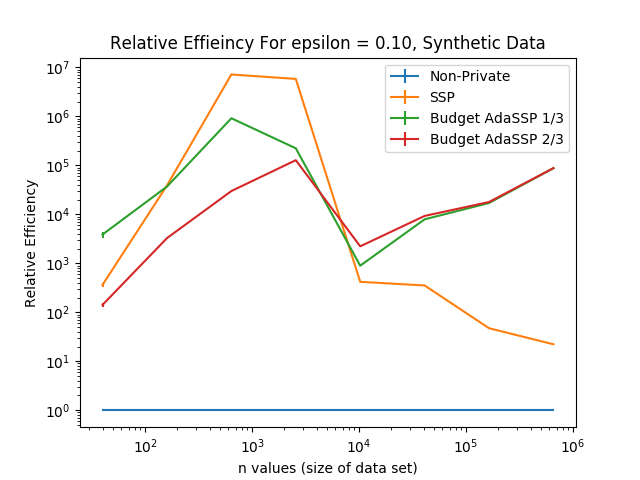
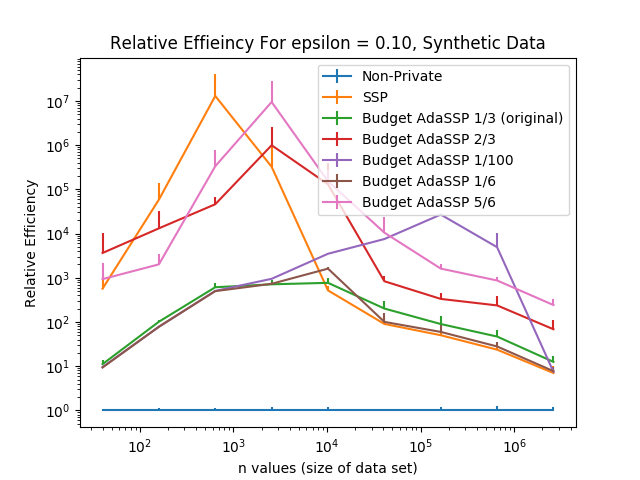
fixed adassp issue with lamb vs. lamb_min, plots make sense now

diff --git a/synthetic_experiments.py b/synthetic_experiments.py
@@ -11,7 +11,7 @@ import matplotlib.pyplot as plt
 # methods
 from SSP import SSP
 from linreg import linreg
-from adassp import adaSSP, adaSSP_1_3, adaSSP_2_3
+from adassp import adaSSP, adaSSP_1_3, adaSSP_2_3, adaSSP_1_100, adaSSP_1_6, adaSSP_5_6
 
 from test_recovery import test_recovery
 
@@ -21,9 +21,9 @@ from test_recovery import test_recovery
 
 
 d = 10
-epslist = [0.01,0.1,1]
+epslist = [0.1,1]
 #nlist= 20*2.^[1:2:18];
-nlist = [20 * (2 ** i) for i in range(1,17,2)] # smaller n go faster
+nlist = [20 * (2 ** i) for i in range(1,18,2)] # smaller n go faster
 
 cross_val_splits = 6
 
@@ -31,9 +31,10 @@ cross_val_splits = 6
 
 #methodslist = [@suffstats_perturb,@adassp, @budget_adassp_1_6, @budget_adassp_1_3,...
     #@budget_adassp_1_2, @budget_adassp_2_3, @budget_adassp_5_6, @budget_adassp_1_100]
-methodsNamelist = ['Non-Private', 'SSP', 'Budget AdaSSP 1/3', 'Budget AdaSSP 2/3'] #, 'Budget AdaSSP 1/6', 'Budget AdaSSP 1/3', 'Budget AdaSSP 1/2',
+methodsNamelist = ['Non-Private', 'SSP', 'Budget AdaSSP 1/3 (original)', 'Budget AdaSSP 2/3',
+'Budget AdaSSP 1/100', 'Budget AdaSSP 1/6', 'Budget AdaSSP 5/6'] #, 'Budget AdaSSP 1/6', 'Budget AdaSSP 1/3', 'Budget AdaSSP 1/2',
 #'Budget AdaSSP 2/3', 'Budget AdaSSP 5/6', 'Budget AdaSSP 1/100']
-methodslist = [linreg, SSP, adaSSP_1_3, adaSSP_2_3]
+methodslist = [linreg, SSP, adaSSP_1_3, adaSSP_2_3, adaSSP_1_100, adaSSP_1_6, adaSSP_5_6]
 
 vanilla_index = methodsNamelist.index('Non-Private')
 if vanilla_index < 0:
@@ -81,6 +82,7 @@ for i in range(num_n):
     for j in range(num_eps):
     #% set parameters of the algorithm
         eps = epslist[j]
+        print(f"eps is {eps:.4f}")
         #opts.eps = epslist(j);
         #opts.delta =1/n^(1.1);
         delta = 1 / (n ** (1.1)) # not so sure what this is about
@@ -92,7 +94,7 @@ for i in range(num_n):
             assert(not np.isnan(cvErr))
             #t_run=toc; # this is for timing, which I am not keeping track of
             t_run = time.time() - t
-            print(f"Time run was {t_run:.4f}s")
+            print(f"method = {methodsNamelist[k]}, Time run was {t_run:.4f}s")
             #fprintf('%s at eps = %f: Test err = %.2f, std = %.2f, runtime = %.2f s.\n', methodsNamelist{k}, opts.eps, cvErr,cvStd,t_run)
             results_err[k,j,i] = cvErr
             results_std[k,j,i] = cvStd
@@ -105,12 +107,16 @@ for i in range(num_n):
 # divide everything by the error for the vanilla linear regression
 
 rel_efficiency = np.zeros((num_method, num_eps, num_n))
+rel_efficiency_std = np.zeros((num_method, num_eps, num_n))
 vanilla_values = results_err[vanilla_index,:,:]
+
 
 for i in range(num_n):
     for j in range(num_eps):
         for k in range(num_method):
             rel_efficiency[k,j,i] = results_err[k,j,i] / vanilla_values[j,i]
+            rel_efficiency_std[k,j,i] = results_std[k,j,i] / vanilla_values[j,i]
+
 
 # then for the plotting
 # right now, it's one plot per epsilon
@@ -121,7 +127,11 @@ for j in range(num_eps):
     eps = epslist[j]
 
     for k in range(num_method):
-        ax.errorbar(x=nlist, y=rel_efficiency[k,j,:], yerr=results_std[k,j,:], label=methodsNamelist[k])
+
+        #print("yerr is ")
+        #print(np.concatenate(    (rel_efficiency_std[k,j,:].reshape((num_n,1)), np.zeros((num_n, 1))),    axis=1).reshape((2, num_n)))
+
+        ax.errorbar(x=nlist, y=rel_efficiency[k,j,:], yerr=np.concatenate(    (np.zeros((num_n, 1)), rel_efficiency_std[k,j,:].reshape((num_n,1))),    axis=1).transpose(), label=methodsNamelist[k])
 
     ax.set_xlabel("n values (size of data set)")
     ax.set_ylabel('Relative Efficiency')
@@ -133,13 +143,15 @@ for j in range(num_eps):
 
 
 # and if we don't divide the values
+# you should get rid of this at some point, this doesn't say much
+"""
 for j in range(num_eps):
     fig, ax = plt.subplots(1) # just one, for now
     eps = epslist[j]
 
     for k in range(num_method):
 
-        ax.errorbar(x=nlist, y=results_err[k,j,:], yerr=results_std[k,j,:], label=methodsNamelist[k])
+        ax.errorbar(x=nlist, y=results_err[k,j,:], yerr=results_std[k,j,:], label=methodsNamelist[k], xlolims=True)
 
     ax.set_xlabel("n values (size of data set)")
     ax.set_ylabel('E (theta_true-theta_pred)^2')
@@ -148,3 +160,4 @@ for j in range(num_eps):
     ax.set_xscale('log')
     ax.legend()
     plt.savefig(f"plots/theta_dist_eps_{eps:.4f}_synthetic.png")
+"""

diff --git a/adassp.py b/adassp.py
@@ -30,6 +30,7 @@ def adaSSP(X,y,epsilon,delta,gamma):
 
     lamb_min = lambda_min_true + np.random.normal(0., 1., 1)*BX*BX*np.sqrt(logsod_hyper)/(epsilon_hyper) - logsod_hyper/(epsilon_hyper)
     lamb_min = max(lamb_min, 0.)
+    lamb = max(0.0, eta - lamb_min)
 
 
     # then handle the "necessary" parts of linear regression
@@ -42,12 +43,13 @@ def adaSSP(X,y,epsilon,delta,gamma):
     # for X^TX
     normal_mat = np.random.normal(0.0,1.0,(d,d))
 
-    # I should look at the coefficients of this thing!
+    # I should look at the coefficients of this thing! beware scalars along diagonal
     symmetric_normal_mat = 0.5 * (normal_mat + normal_mat.T)
     XTX_hat = XTX + (np.sqrt(logsod_necessary)/(epsilon_necessary))*BX*BX*symmetric_normal_mat
 
     # the new version of (X^TX + lambda*I)^{-1}(X^Ty)
-    theta_hat = np.linalg.inv(XTX_hat + lamb_min * np.eye(d)).dot(XTy_hat)
+    # you previously made a mistake where lamb was mistakenly put as lamb_min
+    theta_hat = np.linalg.inv(XTX_hat + lamb * np.eye(d)).dot(XTy_hat)
 
     return theta_hat
 
@@ -57,3 +59,13 @@ def adaSSP_1_3(X,y,epsilon, delta):
 
 def adaSSP_2_3(X,y,epsilon, delta):
     return adaSSP(X=X,y=y,epsilon=epsilon,delta=delta, gamma=2.0/3.0)
+
+def adaSSP_1_6(X,y,epsilon, delta):
+    return adaSSP(X=X,y=y,epsilon=epsilon,delta=delta, gamma=1.0/6.0)
+
+def adaSSP_1_100(X,y,epsilon, delta):
+    return adaSSP(X=X,y=y,epsilon=epsilon,delta=delta, gamma=1.0/100.0)
+
+def adaSSP_5_6(X,y,epsilon, delta):
+    return adaSSP(X=X,y=y,epsilon=epsilon,delta=delta, gamma=5.0/6.0)
+
